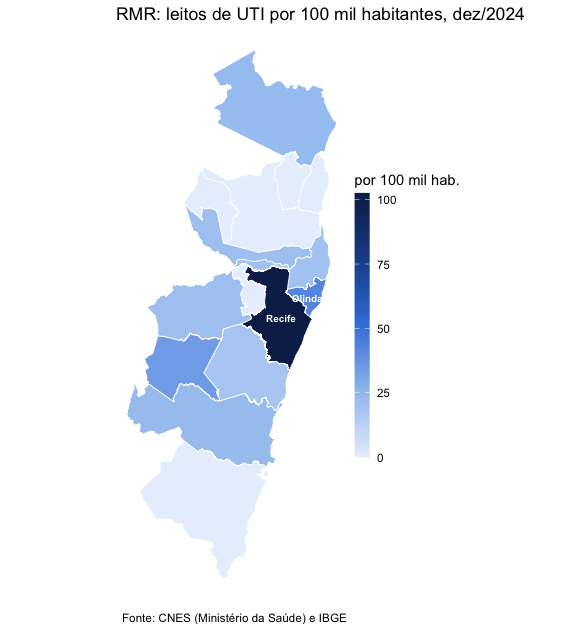
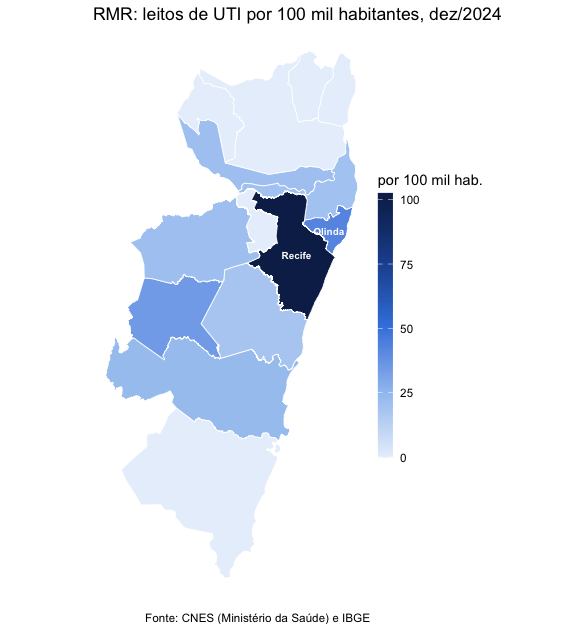
Deploying to gh-pages from @ StrategicProjects/condepe-r@c1af9ff69de3519fee4a13a6d601626999fe6216 🚀

diff --git a/articles/mapas.html b/articles/mapas.html
@@ -332,9 +332,9 @@ plot of chunk saude
 <div class="section level2">
 <h2 id="região-metropolitana-do-recife">Região Metropolitana do Recife<a class="anchor" aria-label="anchor" href="#regi%C3%A3o-metropolitana-do-recife"></a>
 </h2>
-<p>Para ver um recorte, filtre a malha antes de desenhar. Os 15
-municípios da Região Metropolitana do Recife (Goiana entrou em 2018) e
-os leitos de UTI por 100 mil habitantes em dezembro de 2024:</p>
+<p>Para ver um recorte, filtre a malha antes de desenhar. Os 14
+municípios da Região Metropolitana do Recife e os leitos de UTI por 100
+mil habitantes em dezembro de 2024:</p>
 <div class="sourceCode" id="cb15"><pre class="downlit sourceCode r">
 <code class="sourceCode R"><span><span class="va">reg_rm</span> <span class="op">&lt;-</span> <span class="fu"><a href="../reference/condepe_regions.html">condepe_regions</a></span><span class="op">(</span><span class="st">"rm"</span><span class="op">)</span></span>
 <span><span class="va">rmr</span> <span class="op">&lt;-</span> <span class="va">reg_rm</span><span class="op">$</span><span class="va">cd_municipio_ibge</span><span class="op">[</span><span class="va">reg_rm</span><span class="op">$</span><span class="va">regiao</span> <span class="op"><a href="https://rdrr.io/r/base/match.html" class="external-link">%in%</a></span> <span class="st">"Região Metropolitana do Recife"</span><span class="op">]</span></span>
@@ -348,21 +348,20 @@ os leitos de UTI por 100 mil habitantes em dezembro de 2024:</p>
 <span><span class="va">d</span><span class="op">$</span><span class="va">por_100mil</span> <span class="op">&lt;-</span> <span class="fl">1e5</span> <span class="op">*</span> <span class="va">d</span><span class="op">$</span><span class="va">valor_uti</span> <span class="op">/</span> <span class="va">d</span><span class="op">$</span><span class="va">valor_pop</span></span>
 <span><span class="va">d</span><span class="op">[</span><span class="fu"><a href="https://rdrr.io/r/base/order.html" class="external-link">order</a></span><span class="op">(</span><span class="op">-</span><span class="va">d</span><span class="op">$</span><span class="va">por_100mil</span><span class="op">)</span>, <span class="fu"><a href="https://rdrr.io/r/base/c.html" class="external-link">c</a></span><span class="op">(</span><span class="st">"nm_municipio"</span>, <span class="st">"valor_uti"</span>, <span class="st">"por_100mil"</span><span class="op">)</span><span class="op">]</span></span>
 <span><span class="co">#&gt;               nm_municipio valor_uti por_100mil</span></span>
-<span><span class="co">#&gt; 14                  Recife      1627  102.47483</span></span>
-<span><span class="co">#&gt; 12                  Olinda       155   42.41903</span></span>
-<span><span class="co">#&gt; 11                  Moreno        20   34.69391</span></span>
-<span><span class="co">#&gt; 5                   Goiana        20   23.48520</span></span>
+<span><span class="co">#&gt; 13                  Recife      1627  102.47483</span></span>
+<span><span class="co">#&gt; 11                  Olinda       155   42.41903</span></span>
+<span><span class="co">#&gt; 10                  Moreno        20   34.69391</span></span>
 <span><span class="co">#&gt; 3  Cabo de Santo Agostinho        50   23.04477</span></span>
-<span><span class="co">#&gt; 15    São Lourenço da Mata        25   21.22980</span></span>
+<span><span class="co">#&gt; 14    São Lourenço da Mata        25   21.22980</span></span>
 <span><span class="co">#&gt; 1             Abreu e Lima        22   21.16504</span></span>
-<span><span class="co">#&gt; 13                Paulista        72   19.83690</span></span>
-<span><span class="co">#&gt; 10 Jaboatão dos Guararapes       124   18.14763</span></span>
+<span><span class="co">#&gt; 12                Paulista        72   19.83690</span></span>
+<span><span class="co">#&gt; 9  Jaboatão dos Guararapes       124   18.14763</span></span>
 <span><span class="co">#&gt; 2                Araçoiaba         0    0.00000</span></span>
 <span><span class="co">#&gt; 4               Camaragibe         0    0.00000</span></span>
-<span><span class="co">#&gt; 6                 Igarassu         0    0.00000</span></span>
-<span><span class="co">#&gt; 7                  Ipojuca         0    0.00000</span></span>
-<span><span class="co">#&gt; 8        Ilha de Itamaracá         0    0.00000</span></span>
-<span><span class="co">#&gt; 9               Itapissuma         0    0.00000</span></span>
+<span><span class="co">#&gt; 5                 Igarassu         0    0.00000</span></span>
+<span><span class="co">#&gt; 6                  Ipojuca         0    0.00000</span></span>
+<span><span class="co">#&gt; 7        Ilha de Itamaracá         0    0.00000</span></span>
+<span><span class="co">#&gt; 8               Itapissuma         0    0.00000</span></span>
 <span><span class="va">mapa</span> <span class="op">&lt;-</span> <span class="fu"><a href="../reference/condepe_add_geometry.html">condepe_add_geometry</a></span><span class="op">(</span><span class="va">d</span>, geometry <span class="op">=</span> <span class="va">malha</span>, all <span class="op">=</span> <span class="cn">FALSE</span><span class="op">)</span></span>
 <span><span class="va">mapa</span><span class="op">$</span><span class="va">rotulo</span> <span class="op">&lt;-</span> <span class="fu"><a href="https://rdrr.io/r/base/ifelse.html" class="external-link">ifelse</a></span><span class="op">(</span><span class="va">mapa</span><span class="op">$</span><span class="va">por_100mil</span> <span class="op">&gt;=</span> <span class="fl">40</span>, <span class="va">mapa</span><span class="op">$</span><span class="va">nm_municipio</span>, <span class="st">""</span><span class="op">)</span>  <span class="co"># os demais, na tabela acima</span></span></code></pre></div>
 <div class="sourceCode" id="cb16"><pre class="downlit sourceCode r">

diff --git a/articles/mapas.md b/articles/mapas.md
@@ -288,9 +288,9 @@ plot of chunk saude
 
 ## Região Metropolitana do Recife
 
-Para ver um recorte, filtre a malha antes de desenhar. Os 15 municípios
-da Região Metropolitana do Recife (Goiana entrou em 2018) e os leitos de
-UTI por 100 mil habitantes em dezembro de 2024:
+Para ver um recorte, filtre a malha antes de desenhar. Os 14 municípios
+da Região Metropolitana do Recife e os leitos de UTI por 100 mil
+habitantes em dezembro de 2024:
 
 ``` r
 
@@ -306,21 +306,20 @@ d$valor_uti[is.na(d$valor_uti)] <- 0  # município sem leito no CNES-LT: zero le
 d$por_100mil <- 1e5 * d$valor_uti / d$valor_pop
 d[order(-d$por_100mil), c("nm_municipio", "valor_uti", "por_100mil")]
 #>               nm_municipio valor_uti por_100mil
-#> 14                  Recife      1627  102.47483
-#> 12                  Olinda       155   42.41903
-#> 11                  Moreno        20   34.69391
-#> 5                   Goiana        20   23.48520
+#> 13                  Recife      1627  102.47483
+#> 11                  Olinda       155   42.41903
+#> 10                  Moreno        20   34.69391
 #> 3  Cabo de Santo Agostinho        50   23.04477
-#> 15    São Lourenço da Mata        25   21.22980
+#> 14    São Lourenço da Mata        25   21.22980
 #> 1             Abreu e Lima        22   21.16504
-#> 13                Paulista        72   19.83690
-#> 10 Jaboatão dos Guararapes       124   18.14763
+#> 12                Paulista        72   19.83690
+#> 9  Jaboatão dos Guararapes       124   18.14763
 #> 2                Araçoiaba         0    0.00000
 #> 4               Camaragibe         0    0.00000
-#> 6                 Igarassu         0    0.00000
-#> 7                  Ipojuca         0    0.00000
-#> 8        Ilha de Itamaracá         0    0.00000
-#> 9               Itapissuma         0    0.00000
+#> 5                 Igarassu         0    0.00000
+#> 6                  Ipojuca         0    0.00000
+#> 7        Ilha de Itamaracá         0    0.00000
+#> 8               Itapissuma         0    0.00000
 mapa <- condepe_add_geometry(d, geometry = malha, all = FALSE)
 mapa$rotulo <- ifelse(mapa$por_100mil >= 40, mapa$nm_municipio, "")  # os demais, na tabela acima
 ```
